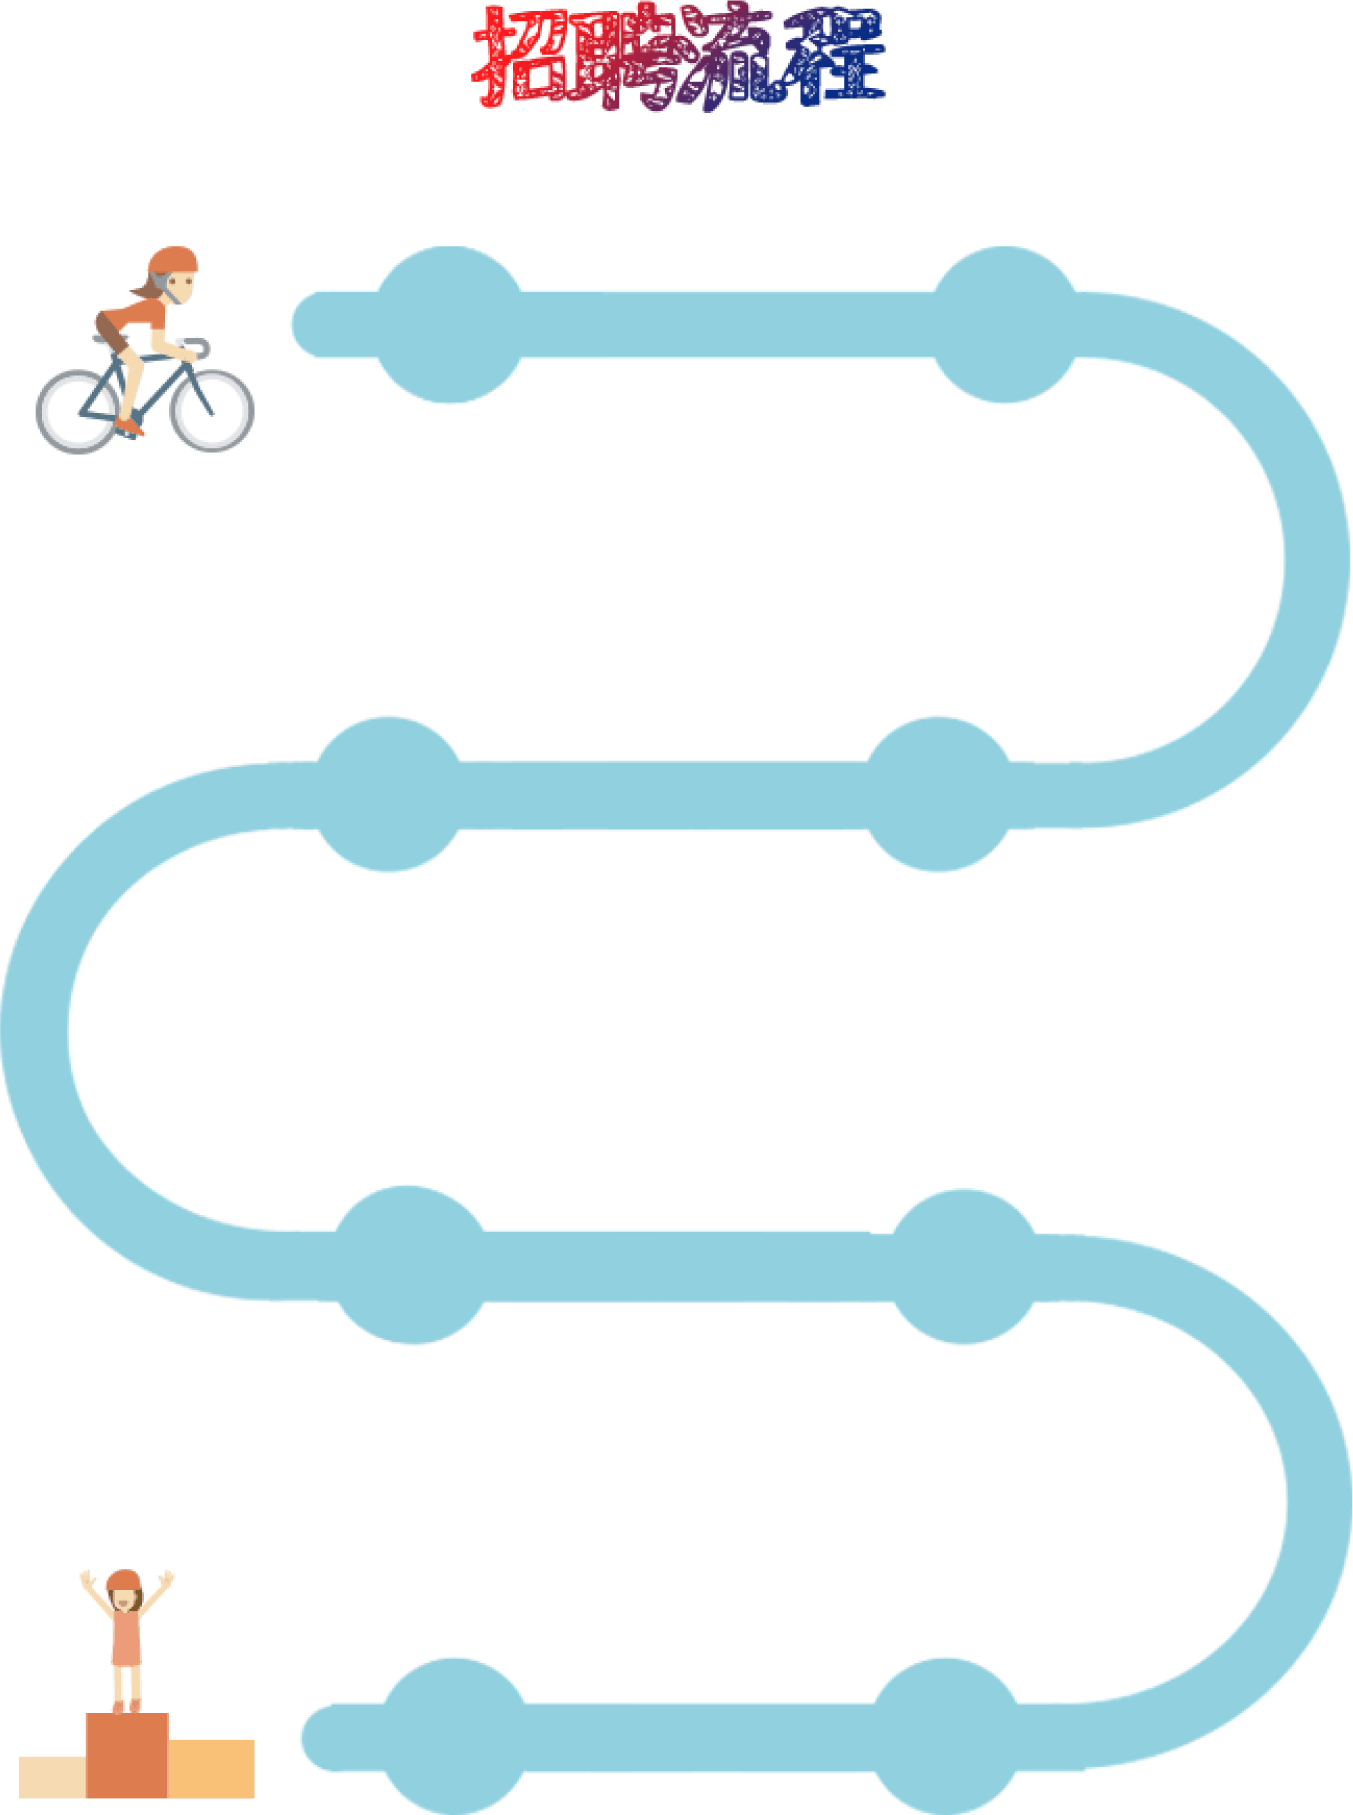
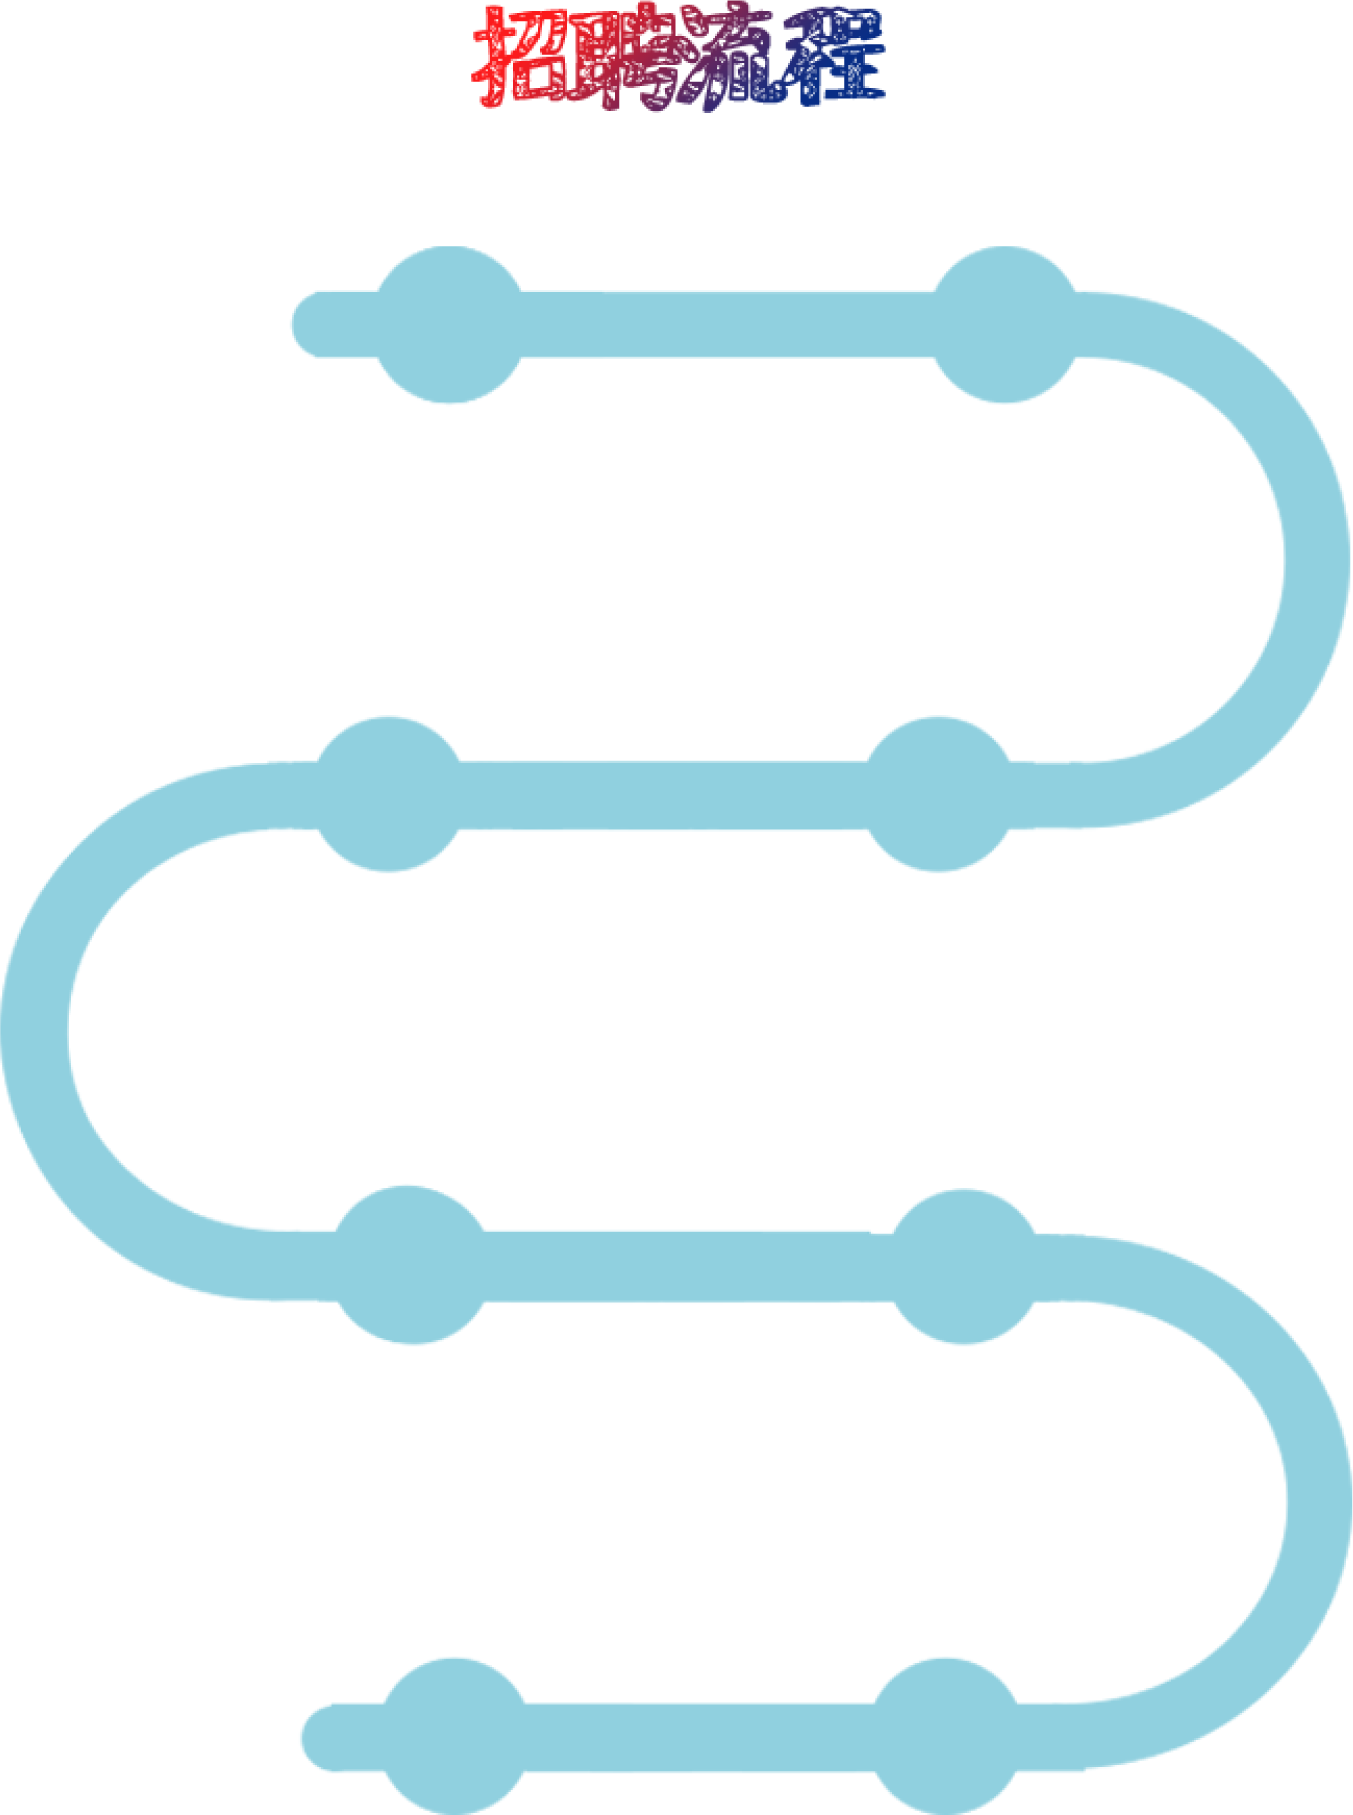
1.0.13

Changed region(s): [[0.0, 0.8639, 0.1863, 1.0], [0.031, 0.1234, 0.1863, 0.2468]]

diff --git a/docs/flow.html b/docs/flow.html
@@ -23,19 +23,23 @@
     <li class="flowClock2 animated fadeInDown"></li>
     <li class="flowApprove animated fadeInDown"></li>
     <li class="flowEntry animated fadeInDown"></li>
-    <li class="flowLogo animated fadeInDown"></li>
+    <li class="flowLogo animated fadeInRight"></li>
+    <li class="flowBegin animated fadeInLeft"></li>
+    <li class="flowEnd animated fadeInDown"></li>
   </ul>
   <script type="text/javascript">
     $('.flowLogo').show(0);
-    $('.flowCalendar').delay(500).show(0);
-    $('.flowRecordedImage').delay(600).show(0);
-    $('.techColorDesktop').delay(900).show(0);
-    $('.flowClock1').delay(1200).show(0);
-    $('.flowInterview').delay(1500).show(0);
-    $('.flowClock2').delay(1800).show(0);
-    $('.flowApprove').delay(2100).show(0);
-    $('.flowEntry').delay(2400).show(0);
-    $('.flowRow').delay(2700).show(0);
+    $('.flowBegin').delay(300).show(0);
+    $('.flowCalendar').delay(600).show(0);
+    $('.flowRecordedImage').delay(900).show(0);
+    $('.techColorDesktop').delay(1200).show(0);
+    $('.flowClock1').delay(1500).show(0);
+    $('.flowInterview').delay(1800).show(0);
+    $('.flowClock2').delay(2100).show(0);
+    $('.flowApprove').delay(2400).show(0);
+    $('.flowEntry').delay(2700).show(0);
+    $('.flowRow').delay(3000).show(0);
+    $('.flowEnd').delay(3300).show(0);
   </script>
 </body>
 

diff --git a/docs/style/comm.css b/docs/style/comm.css
@@ -783,3 +783,25 @@ li a {
   height: 64px;
   display: none;
 }
+
+.flowEnd {
+  background-image: url("../images/flowEnd.png");
+  background-size: 100% 100%;
+  position: absolute;
+  left: 61.5px;
+  top: 926px;
+  width: 118px;
+  height: 115px;
+  display: none;
+}
+
+.flowBegin {
+  background-image: url("../images/flowBegin.png");
+  background-size: 100% 100%;
+  position: absolute;
+  left: 69.5px;
+  top: 264.5px;
+  width: 110px;
+  height: 104.5px;
+  display: none;
+}
